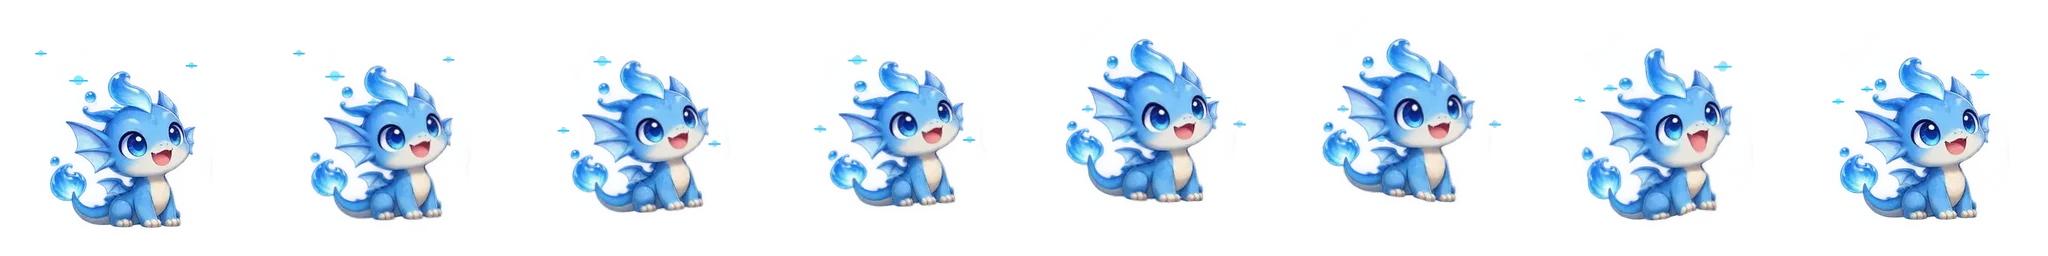
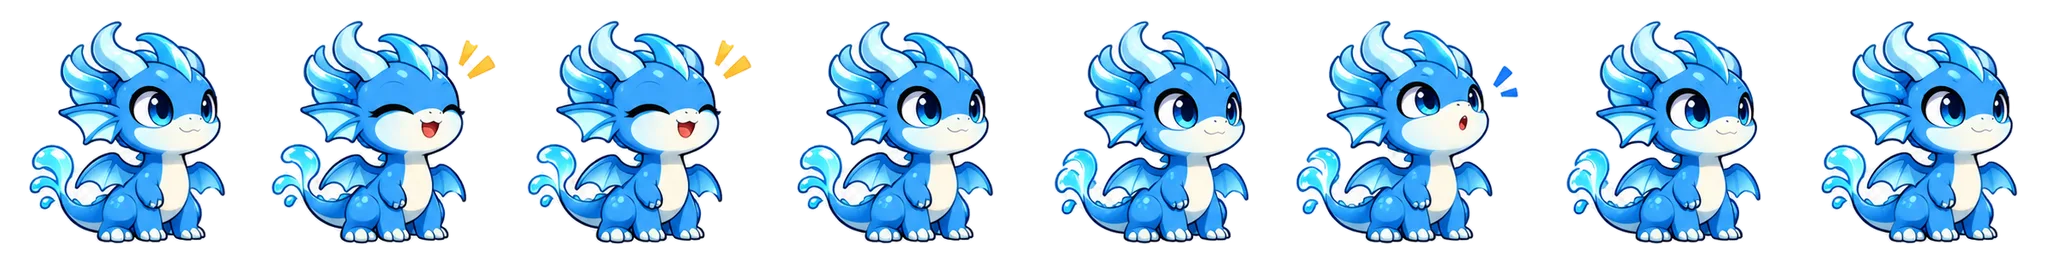
Hanja PWA v2.1.3 dragon animation improvements

diff --git a/sw.js b/sw.js
@@ -1,7 +1,7 @@
 // Each release has its own offline cache. Keep URLs relative for GitHub Pages project paths.
-const CACHE_VERSION='hanja-pwa-v2.1.2-1';
+const CACHE_VERSION='hanja-pwa-v2.1.3-1';
 const PREFIX='hanja-pwa-';
-const CORE=["./","./index.html","./style.css?v=2.1.2","./adventure.js?v=2.1.0","./app.js?v=2.1.0","./writing.js?v=2.1.0","./dragons.js?v=2.1.2","./manifest.webmanifest","./data/hanja.json","./icons/icon-192.png","./icons/icon-512.png","./assets/forest.webp","./assets/fire.webp","./assets/water.webp","./assets/dragons/fire_1.webp","./assets/dragons/fire_2.webp","./assets/dragons/fire_3.webp","./assets/dragons/water_1.webp","./assets/dragons/water_2.webp","./assets/dragons/water_3.webp","./assets/dragons/forest_1.webp","./assets/dragons/forest_2.webp","./assets/dragons/forest_3.webp","./assets/monsters/slime.webp","./assets/monsters/sprout_imp.webp","./assets/monsters/mushroom.webp","./assets/monsters/stone_guardian.webp","./assets/monsters/crystal_bat.webp","./assets/monsters/storm_fox.webp","./assets/monsters/ancient_ent.webp","./assets/monsters/flame_wisp.webp","./assets/monsters/shadow_dragon.webp","./assets/effects/fire_1.webp","./assets/effects/fire_2.webp","./assets/effects/fire_3.webp","./assets/effects/fire_4.webp","./assets/effects/fire_5.webp","./assets/effects/water_1.webp","./assets/effects/water_2.webp","./assets/effects/water_3.webp","./assets/effects/water_4.webp","./assets/effects/water_5.webp","./assets/effects/forest_1.webp","./assets/effects/forest_2.webp","./assets/effects/forest_3.webp","./assets/effects/forest_4.webp","./assets/effects/forest_5.webp","./sprite-player.js?v=2.1.2","./assets/animations/dragons/fire_1_idle.webp","./assets/animations/dragons/fire_1_attack.webp","./assets/animations/dragons/fire_1_victory.webp","./assets/animations/dragons/water_1_idle.webp","./assets/animations/dragons/water_1_attack.webp","./assets/animations/dragons/water_1_victory.webp","./assets/animations/dragons/forest_1_idle.webp","./assets/animations/dragons/forest_1_attack.webp","./assets/animations/dragons/forest_1_victory.webp"];
+const CORE=["./","./index.html","./style.css?v=2.1.3","./adventure.js?v=2.1.0","./app.js?v=2.1.0","./writing.js?v=2.1.0","./dragons.js?v=2.1.3","./manifest.webmanifest","./data/hanja.json","./icons/icon-192.png","./icons/icon-512.png","./assets/forest.webp","./assets/fire.webp","./assets/water.webp","./assets/dragons/fire_1.webp","./assets/dragons/fire_2.webp","./assets/dragons/fire_3.webp","./assets/dragons/water_1.webp","./assets/dragons/water_2.webp","./assets/dragons/water_3.webp","./assets/dragons/forest_1.webp","./assets/dragons/forest_2.webp","./assets/dragons/forest_3.webp","./assets/monsters/slime.webp","./assets/monsters/sprout_imp.webp","./assets/monsters/mushroom.webp","./assets/monsters/stone_guardian.webp","./assets/monsters/crystal_bat.webp","./assets/monsters/storm_fox.webp","./assets/monsters/ancient_ent.webp","./assets/monsters/flame_wisp.webp","./assets/monsters/shadow_dragon.webp","./assets/effects/fire_1.webp","./assets/effects/fire_2.webp","./assets/effects/fire_3.webp","./assets/effects/fire_4.webp","./assets/effects/fire_5.webp","./assets/effects/water_1.webp","./assets/effects/water_2.webp","./assets/effects/water_3.webp","./assets/effects/water_4.webp","./assets/effects/water_5.webp","./assets/effects/forest_1.webp","./assets/effects/forest_2.webp","./assets/effects/forest_3.webp","./assets/effects/forest_4.webp","./assets/effects/forest_5.webp","./sprite-player.js?v=2.1.3","./assets/animations/dragons/fire_1_idle.webp","./assets/animations/dragons/fire_1_attack.webp","./assets/animations/dragons/fire_1_victory.webp","./assets/animations/dragons/water_1_idle.webp","./assets/animations/dragons/water_1_attack.webp","./assets/animations/dragons/water_1_victory.webp","./assets/animations/dragons/forest_1_idle.webp","./assets/animations/dragons/forest_1_attack.webp","./assets/animations/dragons/forest_1_victory.webp"];
 const STROKE_CORE=["./vendor/hanzi-writer.min.js","./strokes/一.json","./strokes/二.json","./strokes/三.json","./strokes/四.json","./strokes/五.json","./strokes/六.json","./strokes/七.json","./strokes/八.json","./strokes/九.json","./strokes/十.json","./strokes/山.json","./strokes/水.json","./strokes/火.json","./strokes/木.json","./strokes/金.json","./strokes/土.json","./strokes/日.json","./strokes/月.json","./strokes/年.json","./strokes/東.json","./strokes/西.json","./strokes/南.json","./strokes/北.json","./strokes/中.json","./strokes/白.json","./strokes/靑.json","./strokes/人.json","./strokes/大.json","./strokes/小.json","./strokes/女.json","./strokes/父.json","./strokes/母.json","./strokes/兄.json","./strokes/弟.json","./strokes/生.json","./strokes/校.json","./strokes/先.json","./strokes/學.json","./strokes/國.json","./strokes/軍.json","./strokes/民.json","./strokes/韓.json","./strokes/門.json","./strokes/室.json","./strokes/王.json","./strokes/外.json","./strokes/長.json","./strokes/寸.json","./strokes/萬.json","./strokes/家.json","./strokes/間.json","./strokes/江.json","./strokes/車.json","./strokes/工.json","./strokes/空.json","./strokes/氣.json","./strokes/記.json","./strokes/男.json","./strokes/內.json","./strokes/農.json","./strokes/答.json","./strokes/道.json","./strokes/動.json","./strokes/力.json","./strokes/立.json","./strokes/每.json","./strokes/名.json","./strokes/物.json","./strokes/方.json","./strokes/不.json","./strokes/事.json","./strokes/上.json","./strokes/姓.json","./strokes/世.json","./strokes/手.json","./strokes/時.json","./strokes/市.json","./strokes/食.json","./strokes/安.json","./strokes/午.json","./strokes/右.json","./strokes/子.json","./strokes/自.json","./strokes/場.json","./strokes/電.json","./strokes/前.json","./strokes/全.json","./strokes/正.json","./strokes/足.json","./strokes/左.json","./strokes/直.json","./strokes/平.json","./strokes/下.json","./strokes/漢.json","./strokes/海.json","./strokes/話.json","./strokes/活.json","./strokes/孝.json","./strokes/後.json","./strokes/歌.json","./strokes/口.json","./strokes/旗.json","./strokes/同.json","./strokes/洞.json","./strokes/冬.json","./strokes/登.json","./strokes/來.json","./strokes/老.json","./strokes/里.json","./strokes/林.json","./strokes/面.json","./strokes/命.json","./strokes/文.json","./strokes/問.json","./strokes/百.json","./strokes/夫.json","./strokes/算.json","./strokes/色.json","./strokes/夕.json","./strokes/少.json","./strokes/所.json","./strokes/數.json","./strokes/植.json","./strokes/心.json","./strokes/語.json","./strokes/然.json","./strokes/有.json","./strokes/育.json","./strokes/邑.json","./strokes/入.json","./strokes/字.json","./strokes/祖.json","./strokes/住.json","./strokes/主.json","./strokes/重.json","./strokes/紙.json","./strokes/地.json","./strokes/千.json","./strokes/天.json","./strokes/川.json","./strokes/草.json","./strokes/村.json","./strokes/秋.json","./strokes/春.json","./strokes/出.json","./strokes/便.json","./strokes/夏.json","./strokes/花.json","./strokes/休.json"]; // Written by scripts/bundle_strokes.sh when stroke-order assets are installed.
 self.addEventListener('install', event=>event.waitUntil(caches.open(CACHE_VERSION).then(cache=>cache.addAll(CORE.concat(STROKE_CORE))).then(()=>self.skipWaiting())));
 self.addEventListener('activate', event=>event.waitUntil(Promise.all([

diff --git a/index.html b/index.html
@@ -10,18 +10,18 @@
   <link rel="manifest" href="./manifest.webmanifest">
   <link rel="icon" href="./icons/icon-192.png">
   <link rel="apple-touch-icon" href="./icons/icon-192.png">
-  <link rel="stylesheet" href="./style.css?v=2.1.2">
-  <title>한자 탐험대 · PWA v2.1.2</title>
+  <link rel="stylesheet" href="./style.css?v=2.1.3">
+  <title>한자 탐험대 · PWA v2.1.3</title>
   <script defer src="./writing.js?v=2.1.0"></script>
-  <script defer src="./sprite-player.js?v=2.1.2"></script>
-  <script defer src="./dragons.js?v=2.1.2"></script>
+  <script defer src="./sprite-player.js?v=2.1.3"></script>
+  <script defer src="./dragons.js?v=2.1.3"></script>
   <script defer src="./adventure.js?v=2.1.0"></script>
   <script defer src="./app.js?v=2.1.0"></script>
 </head>
 <body>
   <main class="shell">
     <header class="hero">
-      <div class="hero-title"><span class="eyebrow">드래곤 가디언즈 · PWA v2.1.2</span><h1>한자 탐험대</h1><p>배우고, 맞히고, 기억하는 한자 모험!</p></div>
+      <div class="hero-title"><span class="eyebrow">드래곤 가디언즈 · PWA v2.1.3</span><h1>한자 탐험대</h1><p>배우고, 맞히고, 기억하는 한자 모험!</p></div>
       <img src="./assets/forest.webp" alt="숲의 아기 드래곤 그루" width="140" height="140">
     </header>
     <div class="status-strip" aria-live="polite"><span id="save-status" role="status">기록 확인 중…</span><span id="offline-status">기록은 휴대전화에 자동 저장돼요</span></div>
@@ -45,7 +45,7 @@
       <input id="import-file" type="file" accept="application/json,.json" hidden>
       <p class="note">v2.0.0 PWA 백업과 기존 Streamlit JSON 기록 가져오기를 지원합니다. 복원 전에 현재 기록을 백업해 두세요.</p>
     </section>
-    <footer>한자 탐험대 v2.1.2 · 개인 학습용<br>홈·배우기·퀴즈·복습·쓰기·모험 지도·드래곤·카드·기록 · 자동 저장 · 오프라인</footer>
+    <footer>한자 탐험대 v2.1.3 · 개인 학습용<br>홈·배우기·퀴즈·복습·쓰기·모험 지도·드래곤·카드·기록 · 자동 저장 · 오프라인</footer>
   </main>
 </body>
 </html>

diff --git a/style.css b/style.css
@@ -212,3 +212,24 @@
 .sprite-holder{overflow:visible}
 .sprite-holder>.sprite-canvas{image-rendering:auto;transform:none}
 .attack-stage .attack-dragon .sprite-holder{min-height:85px}
+
+
+/* v2.1.3: make the sprite a real battle character, not a thumbnail. */
+.attack-stage{height:clamp(285px,78vw,365px)}
+.attack-stage .figures{inset:38px 8px 45px;grid-template-columns:minmax(0,1fr) minmax(0,1fr);gap:2px;align-items:end}
+.attack-stage .unit{min-width:0;justify-content:flex-end;overflow:visible}
+.attack-stage .unit .sprite-holder{
+  display:block;width:min(100%,clamp(128px,43vw,208px));max-width:none;
+  height:clamp(152px,51vw,215px);min-height:0; margin:0 auto 3px;
+  flex:none;overflow:visible;
+}
+.attack-stage .unit .sprite-holder>img,
+.attack-stage .unit .sprite-holder>.sprite-canvas{width:100%!important;height:100%!important;object-fit:contain}
+.attack-stage .enemy-hit>img{width:100%;max-width:clamp(125px,43vw,205px);height:clamp(145px,50vw,220px);object-fit:contain}
+.attack-stage .unit>span{position:relative;z-index:3}
+@media(max-width:380px){
+  .attack-stage{height:292px}
+  .attack-stage .figures{inset:36px 4px 46px;gap:0}
+  .attack-stage .unit .sprite-holder{width:min(100%,145px);height:172px}
+  .attack-stage .enemy-hit>img{height:164px}
+}

diff --git a/sprite-player.js b/sprite-player.js
@@ -1,4 +1,4 @@
-/* 한자 탐험대 PWA v2.1.2 — 실제 추가 이미지 프레임 재생기
+/* 한자 탐험대 PWA v2.1.3 — 실제 추가 이미지 프레임 재생기
  * 아기 드래곤 3종 × (대기 8 / 공격 12 / 승리 8) 프레임.
  * 기존 학습·전투 판정·저장 로직을 수정하지 않습니다.
  */
@@ -164,7 +164,7 @@
       if (!document.hidden) schedule();
     });
   }
-  window.HanjaSprites = { mount, play, version: '2.1.2', modes: MODES };
+  window.HanjaSprites = { mount, play, version: '2.1.3', modes: MODES };
   if (document.readyState === 'loading') {
     document.addEventListener('DOMContentLoaded', setup, { once: true });
   } else setup();
